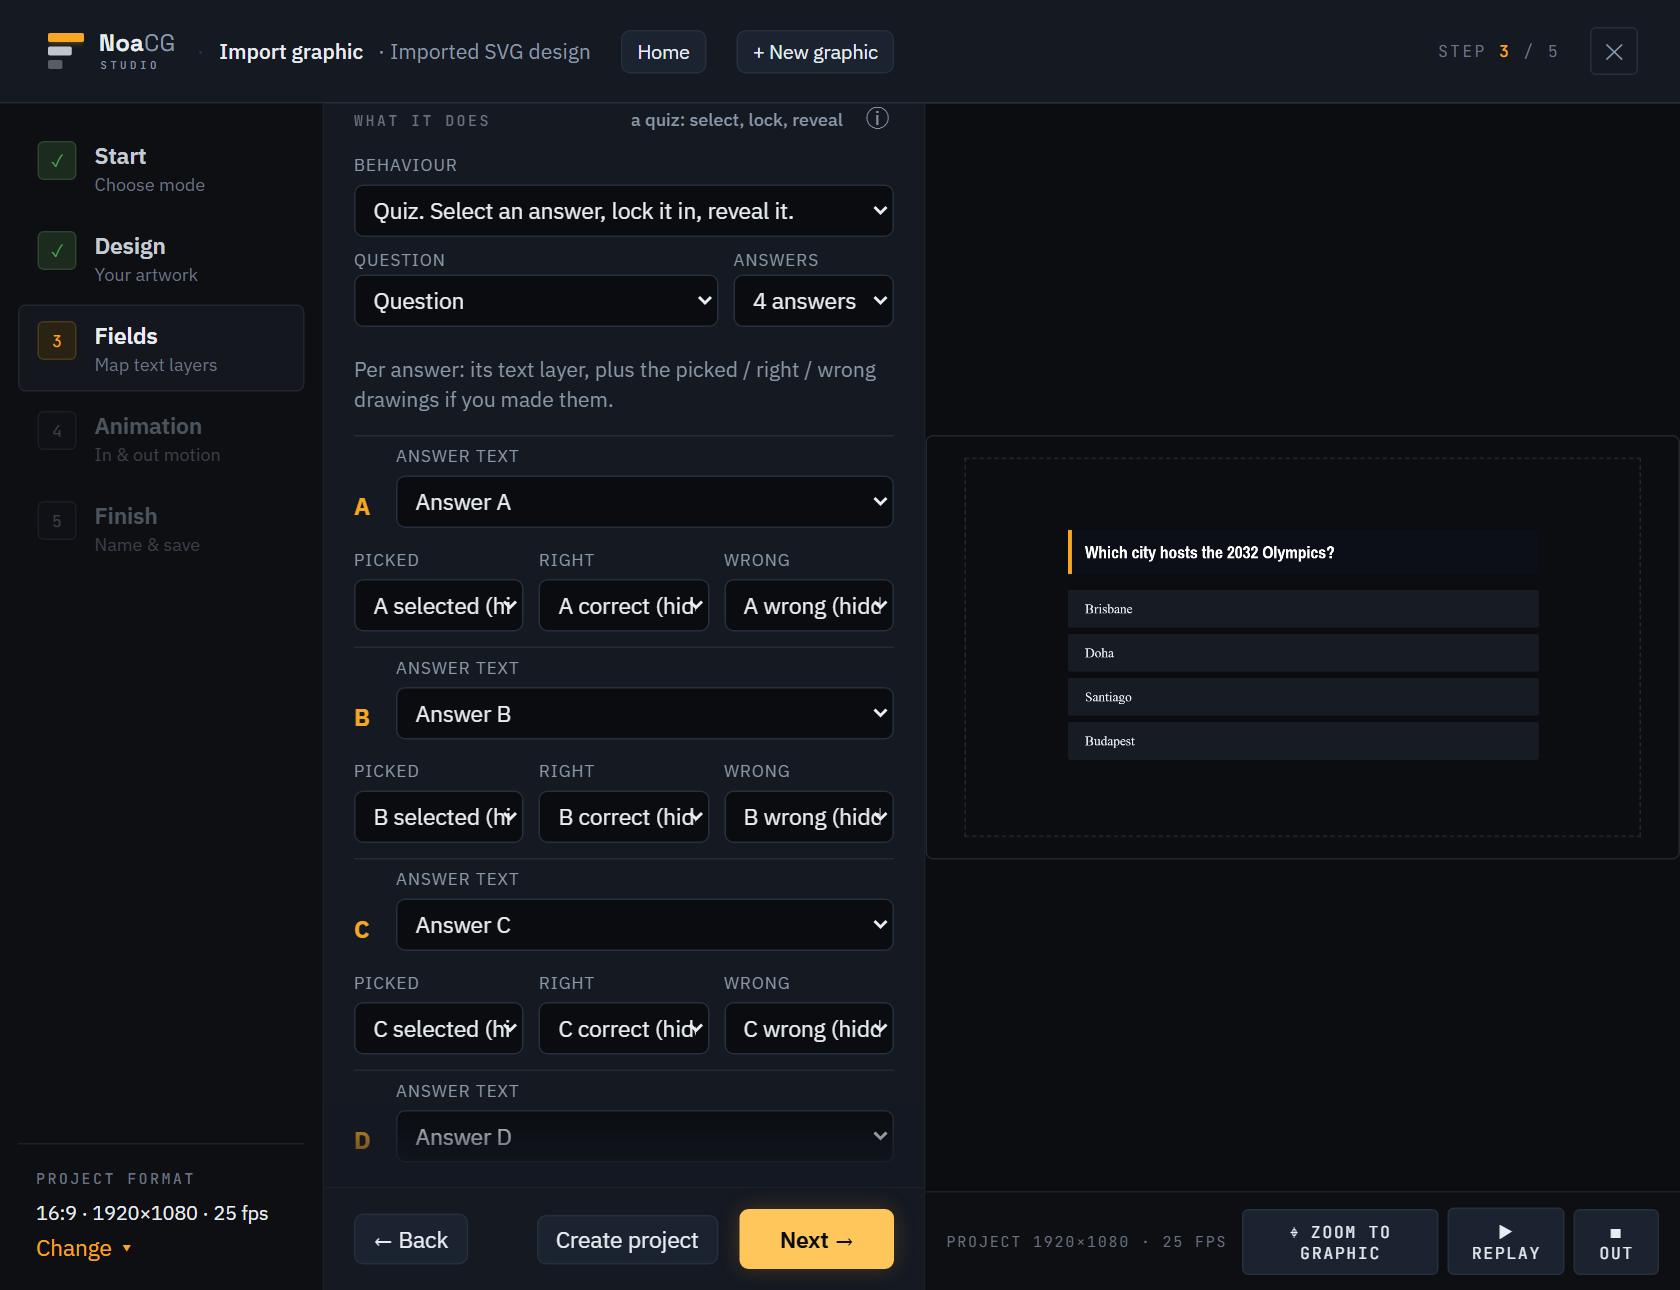
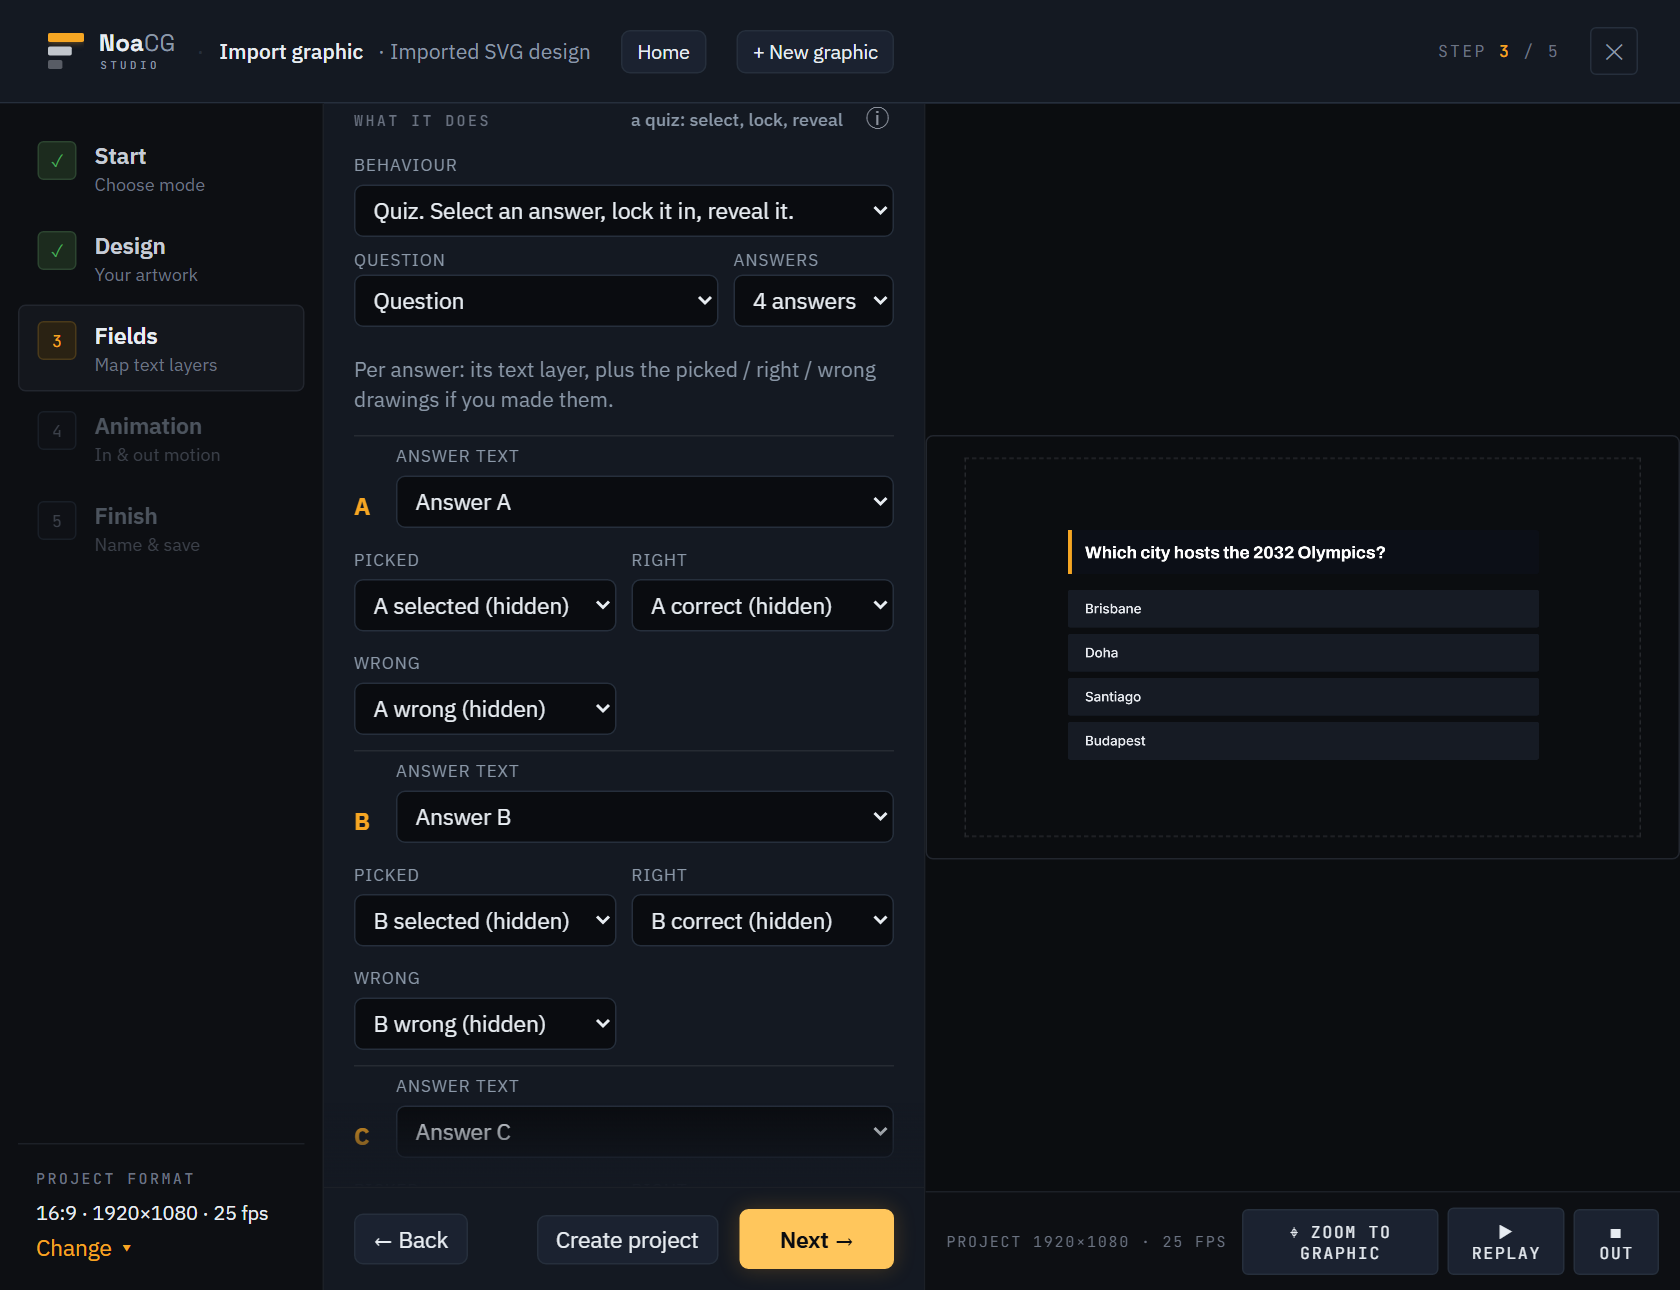
Give the SVG quiz state pickers equal columns wide enough for their values
On the SVG mapping step the picked / right / wrong dropdowns are laid out as a
grid of equal columns instead of a flex row. The flex row failed in two ways on
a 1280 laptop, where the form column is about 438px wide with the preview beside
it: squeezed to three columns it left each picker at 139px, and a <select>
cannot ellipsize its own value, so "A selected (hidden)" was painted as
"A selected (hidde" - a control that cannot say what it is set to. Letting the
items wrap instead fixed the clipping but left two pickers at 214px and the
third alone across the full width, which reads as a broken row rather than as
one answer's drawings.

repeat(auto-fit, minmax(160px, 1fr)) gives whatever number of columns fits, all
the same width: three across on a wide panel, two at 1280, one on a narrow one,
and never below the 152px Chromium needs to show the longest layer name these
pickers hold. The poll behaviour's bar / figure / winner rows reuse the same
class and get the same layout.

Also regenerates public/docs/svg-behaviour.png, which was photographing the
clipped values on the public docs page.

diff --git a/src/components/wizard/steps/mapSvgFields.css b/src/components/wizard/steps/mapSvgFields.css
@@ -81,10 +81,8 @@
 }
 
 /* One answer row of the quiz behaviour: the letter, which text layer it is, and the three
-   drawn states beside it. Wraps rather than scrolls - four pickers is wider than the panel on
-   a laptop, and a row that scrolls sideways hides the state nobody bound. The three states
-   wrap as ONE GROUP: individually, the narrow column dropped "Wrong" alone onto a third line
-   and the row read as two half-rows rather than an answer and its drawings. */
+   drawn states beside it. The row wraps rather than scrolls - four pickers is wider than the
+   panel on a laptop, and a row that scrolls sideways hides the state nobody bound. */
 .map-svg-quiz-row {
   display: flex;
   gap: 10px;
@@ -99,28 +97,28 @@
   flex: 1 1 170px;
   min-width: 0;
 }
+/* THE THREE STATES ARE A GRID OF EQUAL COLUMNS, never a flex row that squeezes or strands them.
+   Both failures were real on this panel, which is ~438px wide at 1280 with the preview beside it.
+   Squeezed, three columns come out at 139px - and a <select> cannot ellipsize its own value, so
+   it simply CUTS it: the documentation screenshot of this step (2026-08-30) caught a bound row
+   reading "A selected (hidde", a control that cannot say what it is set to. Letting the flex
+   items wrap instead stopped the clipping and bought a second defect - two pickers at 214px and
+   the third alone at the full 438px, which reads as a broken row rather than as one answer's
+   drawings. auto-fit is the layout that is both: however many columns fit, always the same width
+   - three across from ~470px of band, two below that, one on a narrow panel.
+   THE 160px FLOOR IS MEASURED. The longest value these pickers hold is a layer name plus the
+   state word plus " (hidden)" - "A selected (hidden)" - and Chromium's own intrinsic width for a
+   select holding it, at this font and padding, is 152px; the rest is room for a name a little
+   longer than the sample's. Growing past the floor is free. */
 .map-svg-quiz-states {
-  display: flex;
+  display: grid;
+  grid-template-columns: repeat(auto-fit, minmax(160px, 1fr));
   gap: 10px;
-  align-items: flex-end;
+  align-items: end;
   flex: 1 1 504px;   /* three legible pickers; below that the set takes its own line */
   min-width: 0;
-  /* …and below THAT the three wrap among themselves, 2 then 1, rather than being squeezed.
-     THIS REVERSES HALF OF THE NOTE ABOVE, deliberately and with a measurement. Keeping the three
-     unbreakable is right until the panel is narrower than three legible pickers, and this panel
-     IS: at 1280 the column is ~447px, which left each picker ~142px. A <select> cannot ellipsize
-     its own value, so it simply CUTS it, and the documentation screenshot of this step
-     (2026-08-30) caught a bound row reading "A selected (hidde" - a control that cannot say what
-     it is set to. Ragged and readable beats tidy and clipped; the letter still spans the whole
-     block, so the set still reads as one answer's drawings. */
-  flex-wrap: wrap;
 }
 .map-svg-quiz-states .save-field {
-  /* The basis is measured, not guessed: the longest value these pickers hold is a layer name plus
-     the state word plus " (hidden)" - "A selected (hidden)", 19 characters - and 158px is that
-     string at the panel's own size with the select's arrow beside it. Growing is free; shrinking
-     below this is what clipped it. */
-  flex: 1 1 158px;
   min-width: 0;
 }
 .map-svg-quiz-letter {
